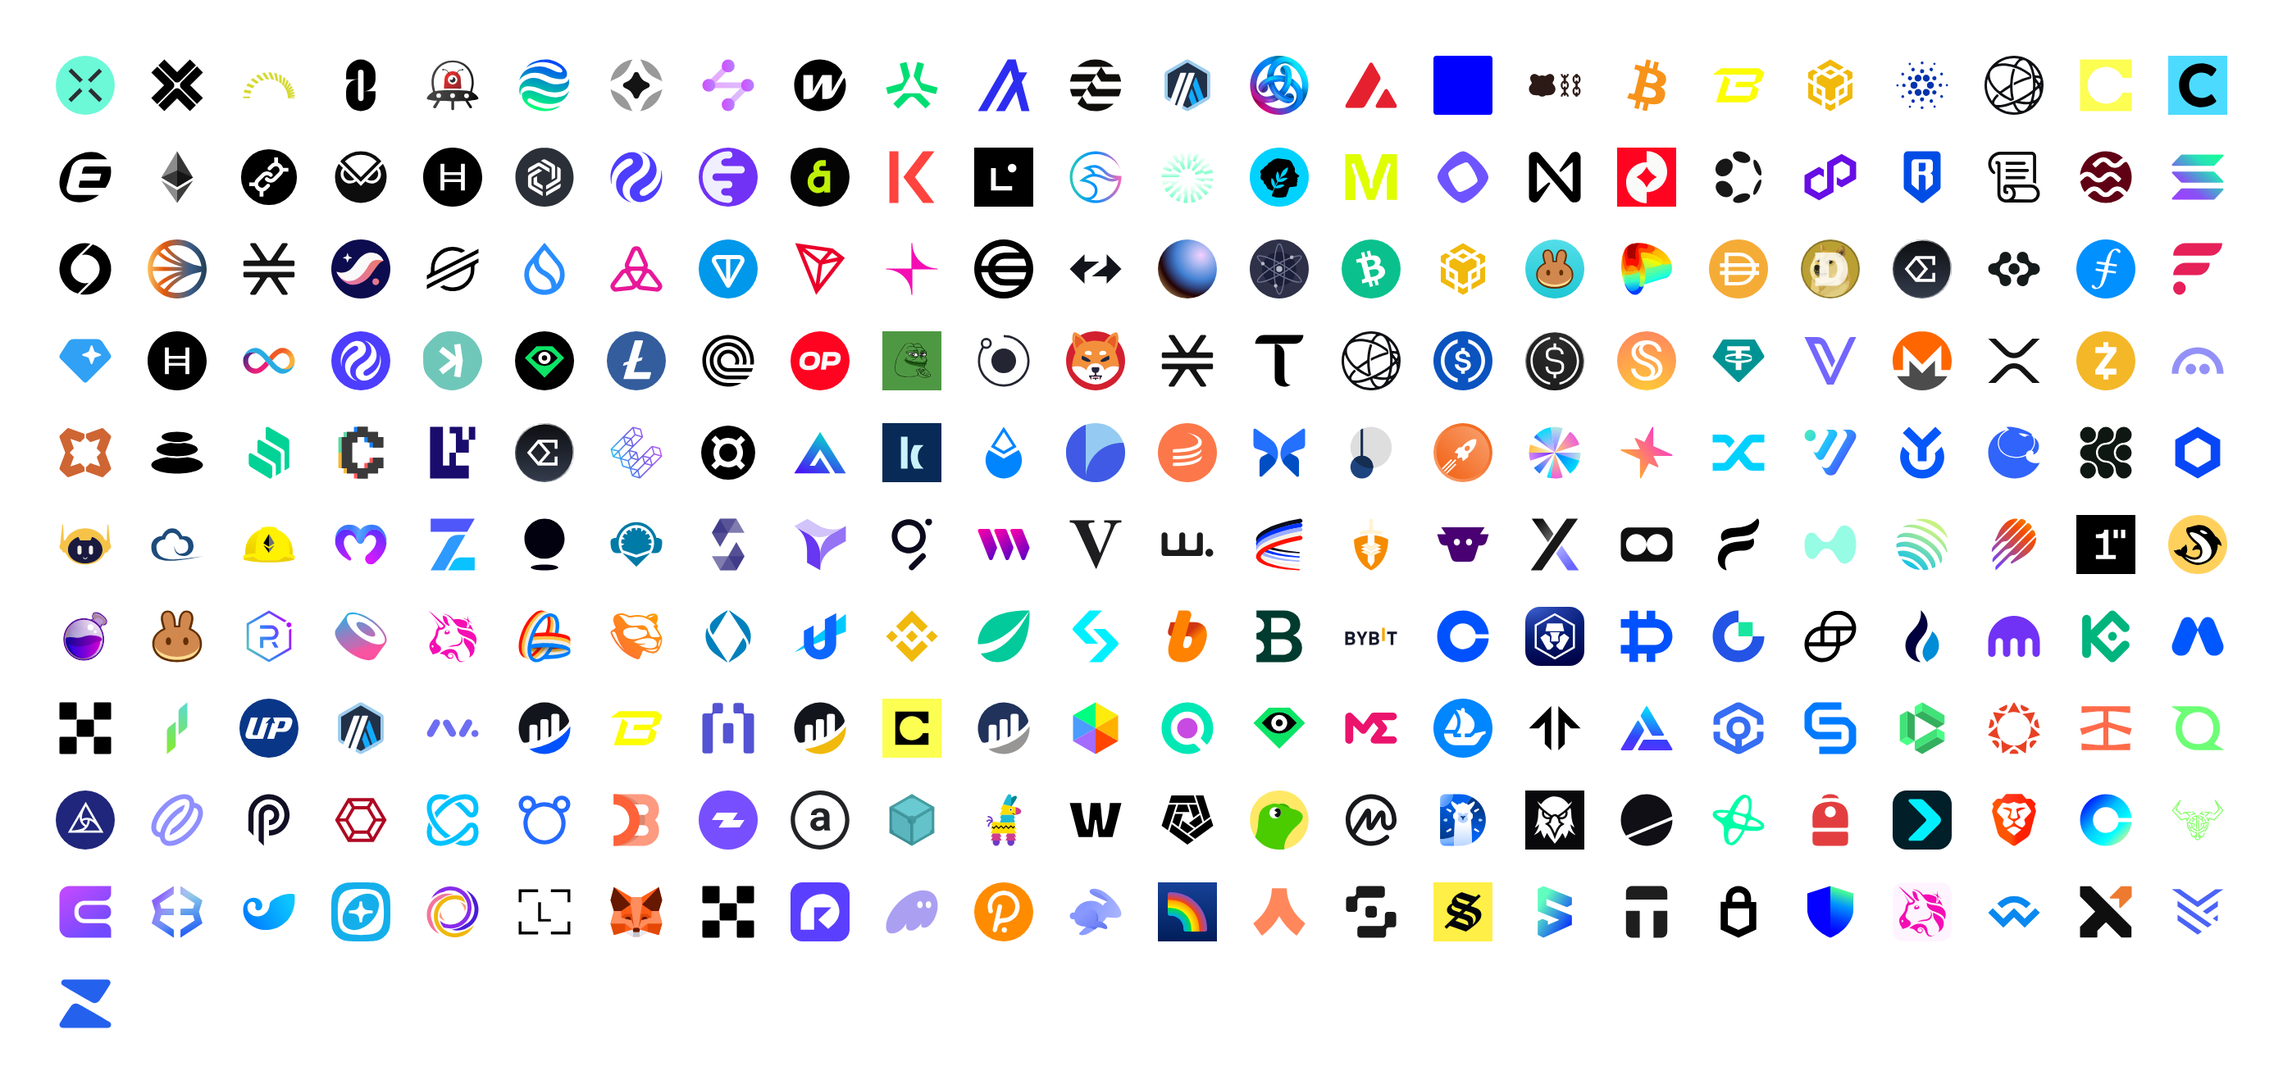
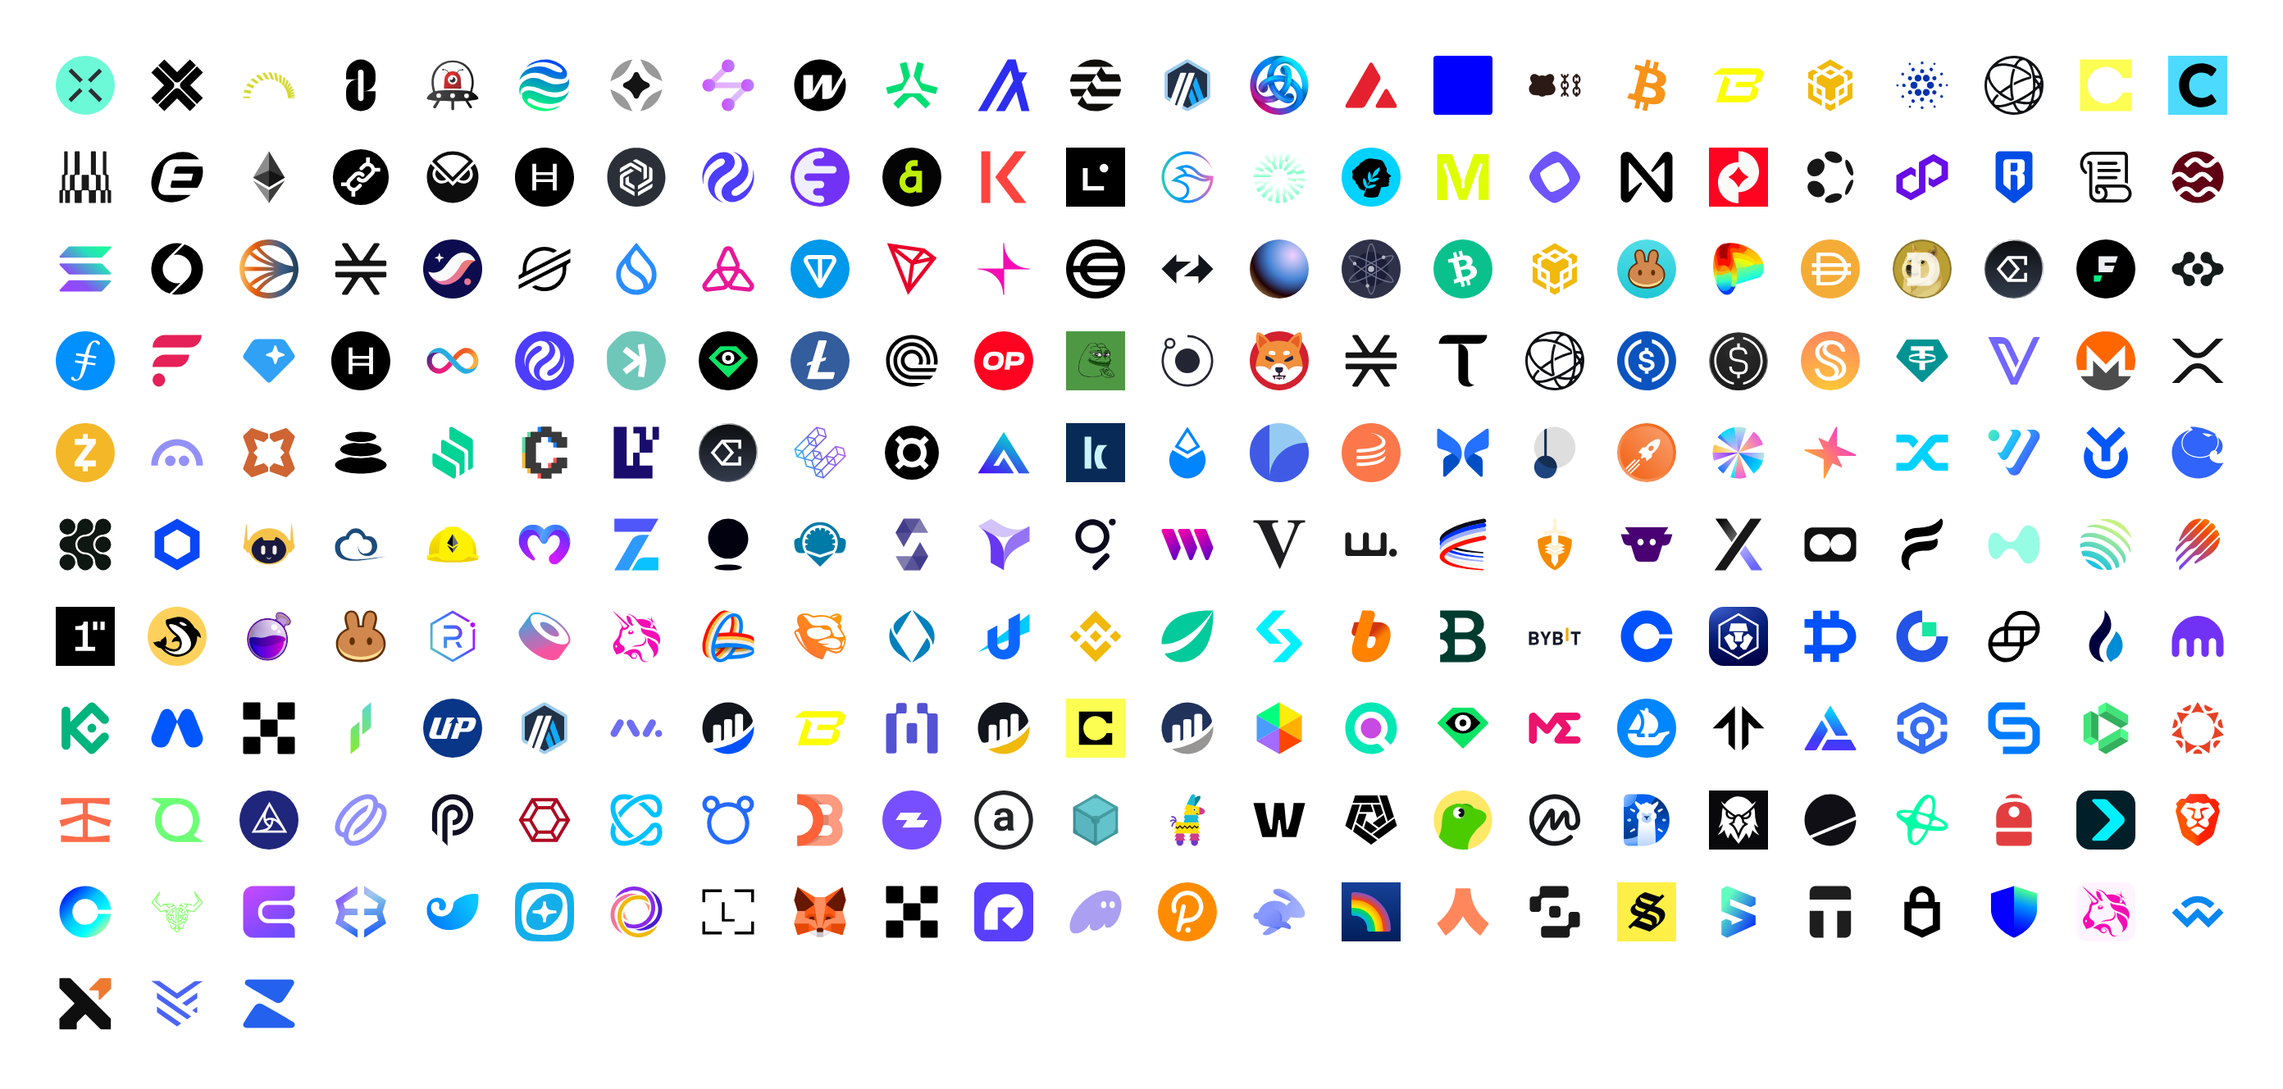
feat: add DataNetwork (formerly Story, chain 1514), Data and Fdusd (#874)
* feat(chain): add DataNetwork (formerly Story, chain 1514) and the Data coin

- DataNetwork / DataNetworkMono: the DATA Foundation brand kit's Symbol
  (TDF_Symbol_Black.svg, #1A1A1A), path unchanged, and the same path in
  currentColor (the kit's white Symbol has the same geometry).
- DataNetworkSquare / DataNetworkSquareMono: the kit's $DATA token badge
  (TDF_Token_DATA.svg, #F8F8F6 mark on a #1A1A1A square) and the square
  in currentColor with the mark knocked out (one evenodd path). The
  legibility report lists the square as DataNetwork's option on dark.
- Lookup keys: chain ID 1514 and the slugs data-network, data and story
  (Story Network became DATA Network; Story never shipped here, so no
  deprecated alias is needed).
- Data re-exports the four variants as the coin, with ticker DATA and
  the legacy ticker IP ($IP converts 1:1 to $DATA per datafdn.org/faqs).
- naming test: DataNetwork keeps the Network suffix of the official name
  "DATA Network".

Refs #706

Claude-Session: https://claude.ai/code/session_0113jxgcTGsEPf2j7H39sjZS

* feat(coin): add Fdusd (First Digital USD)

- Fdusd: First Digital's official token icon
  https://cdn.1stdigital.com/icon/fdusd.svg, unchanged (black disc, F in
  #ECEFF3, bar in #02EC81), placed on the 64 grid as a container. It is
  the image of the issuer's token metadata (cdn.1stdigital.com/mainnet/
  metadata.json, the json_uri of the FDUSD Solana mint) and the iconUrl
[…]

Changed region(s): [[0.0, 0.1235, 1.0, 0.5248], [0.0, 0.5557, 0.9688, 0.8645], [0.0312, 0.8953, 0.125, 0.9571]]

diff --git a/src/chain/DataNetwork.tsx b/src/chain/DataNetwork.tsx
@@ -1,0 +1,60 @@
+import { createIcon } from '../utils';
+
+// Source: https://datafdn.org/brand-guide (official DATA Foundation brand guide, brand kit 06252026)
+// Source: https://assets.piplabs.xyz/datafdn.org/brand-kit/06252026/Symbol/sm/TDF_Symbol_Black.svg (the brand guide's Symbol; Symbol/sm/TDF_Symbol_White.svg is the same geometry in #F8F8F6)
+// Source: https://assets.piplabs.xyz/datafdn.org/brand-kit/06252026/Token/sm/DATA/TDF_Token_DATA.svg (the brand guide's $DATA token badge)
+// Formerly Story: https://www.datafdn.org/ says Story Network becomes DATA Network and $IP becomes $DATA, and https://www.datafdn.org/faqs says all $IP converts to $DATA at a 1:1 ratio. Chain ID 1514 is listed as Data Network on chainid.network (checked 2026-10-09). Story never shipped in this package, so story is an extra lookup key with no deprecated alias
+// Default: the official Symbol TDF_Symbol_Black.svg (one path in #1A1A1A), path unchanged, placed on the 64 grid. The brand guide calls the Symbol the standalone mark for social icons, token badges and favicons. The brand colour stays the neutral #1A1A1A, as for Aptos and Hedera, because the guide reserves the #F6FF00 highlight for emphasis
+// Mono: the same path in currentColor (TDF_Symbol_White.svg is this geometry in #F8F8F6)
+// Square: the official $DATA token badge TDF_Token_DATA.svg (a full-bleed #1A1A1A square with the mark in #F8F8F6 at 60% of the side), paths unchanged, placed on the 64 grid. SquareMono: the square in currentColor with the badge's mark knocked out (one evenodd path; the mark is a single contour)
+/** Data Network chain icon (colored). */
+export const DataNetwork = /* @__PURE__ */ createIcon(
+  'DataNetwork',
+  '0 0 64 64',
+  () => (
+    <path
+      fill="#1A1A1A"
+      d="M12.18 29.6h-.49q-1.47 0-1.47 1.52v13.67q0 1.52 1.47 1.52h2.2q1.47 0 1.47-1.52V30.35q0-.76.73-.76h2.94q1.47 0 1.47-1.51V4.78q0-.76.73-.77h3.92q.73 0 .73.76v24.06q0 .76-.73.76h-3.18q-1.47 0-1.47 1.53v13.67c0 1.01.73 1.52 1.47 1.52h4.64q1.47 0 1.47-1.52V30.35q0-.76.73-.76h6.37q.73 0 .73.76V44.8c0 1 .74 1.5 1.47 1.5h4.65q1.47 0 1.47-1.5V31.1q0-1.52-1.47-1.52h-3.18q-.73 0-.73-.76V4.77q0-.75.73-.76h3.92q.72 0 .72.76v23.3q0 1.52 1.48 1.52h2.93q.73 0 .73.76V44.8q0 1.5 1.47 1.5h2.21q1.47 0 1.47-1.5V31.1q0-1.52-1.47-1.52h-.5q-.72 0-.72-.76V4.77q0-.75.73-.76h2.3q.73 0 .73.76v23.3q0 1.52 1.47 1.52h.24q.74 0 .74.76V44.8q0 1.5 1.47 1.5h.49q.72 0 .73.77v12.16q0 .76-.73.76h-2.3q-.74 0-.74-.76v-11.4c0-1-.48-1.52-1.22-1.52-.73 0-1.22.5-1.22 1.52v11.4q0 .76-.74.76h-3.67q-.73 0-.73-.76v-11.4q0-1.51-1.47-1.52h-2.2q-1.47 0-1.47 1.52v11.4q0 .76-.74.76h-6.11q-.73 0-.74-.76v-11.4q0-1.51-1.46-1.52h-4.9q-1.47 0-1.47 1.52v11.4q0 .76-.73.76h-6.12q-.74 0-.73-.76v-11.4q0-1.51-1.48-1.52h-2.2q-1.46 0-1.46 1.52v11.4q0 .76-.73.76h-3.68q-.73 0-.73-.76v-11.4c0-1-.49-1.52-1.22-1.52-.74 0-1.23.5-1.23 1.52v11.4q0 .76-.73.76h-2.3q-.73 0-.73-.76V47.07q0-.76.73-.76h.5q1.46 0 1.46-1.52V30.35q0-.76.73-.76h.25q1.47 0 1.47-1.51V4.78q0-.76.73-.77h2.3q.73 0 .73.76v24.06q0 .76-.73.76"
+    />
+  ),
+  { fill: 'none' },
+);
+
+/** Data Network chain icon (monochrome). */
+export const DataNetworkMono = /* @__PURE__ */ createIcon(
+  'DataNetworkMono',
+  '0 0 64 64',
+  () => (
+    <path d="M12.18 29.6h-.49q-1.47 0-1.47 1.52v13.67q0 1.52 1.47 1.52h2.2q1.47 0 1.47-1.52V30.35q0-.76.73-.76h2.94q1.47 0 1.47-1.51V4.78q0-.76.73-.77h3.92q.73 0 .73.76v24.06q0 .76-.73.76h-3.18q-1.47 0-1.47 1.53v13.67c0 1.01.73 1.52 1.47 1.52h4.64q1.47 0 1.47-1.52V30.35q0-.76.73-.76h6.37q.73 0 .73.76V44.8c0 1 .74 1.5 1.47 1.5h4.65q1.47 0 1.47-1.5V31.1q0-1.52-1.47-1.52h-3.18q-.73 0-.73-.76V4.77q0-.75.73-.76h3.92q.72 0 .72.76v23.3q0 1.52 1.48 1.52h2.93q.73 0 .73.76V44.8q0 1.5 1.47 1.5h2.21q1.47 0 1.47-1.5V31.1q0-1.52-1.47-1.52h-.5q-.72 0-.72-.76V4.77q0-.75.73-.76h2.3q.73 0 .73.76v23.3q0 1.52 1.47 1.52h.24q.74 0 .74.76V44.8q0 1.5 1.47 1.5h.49q.72 0 .73.77v12.16q0 .76-.73.76h-2.3q-.74 0-.74-.76v-11.4c0-1-.48-1.52-1.22-1.52-.73 0-1.22.5-1.22 1.52v11.4q0 .76-.74.76h-3.67q-.73 0-.73-.76v-11.4q0-1.51-1.47-1.52h-2.2q-1.47 0-1.47 1.52v11.4q0 .76-.74.76h-6.11q-.73 0-.74-.76v-11.4q0-1.51-1.46-1.52h-4.9q-1.47 0-1.47 1.52v11.4q0 .76-.73.76h-6.12q-.74 0-.73-.76v-11.4q0-1.51-1.48-1.52h-2.2q-1.46 0-1.46 1.52v11.4q0 .76-.73.76h-3.68q-.73 0-.73-.76v-11.4c0-1-.49-1.52-1.22-1.52-.74 0-1.23.5-1.23 1.52v11.4q0 .76-.73.76h-2.3q-.73 0-.73-.76V47.07q0-.76.73-.76h.5q1.46 0 1.46-1.52V30.35q0-.76.73-.76h.25q1.47 0 1.47-1.51V4.78q0-.76.73-.77h2.3q.73 0 .73.76v24.06q0 .76-.73.76" />
+  ),
+  { fill: 'currentColor' },
+);
+
+/** Data Network Square chain icon (colored). */
+export const DataNetworkSquare = /* @__PURE__ */ createIcon(
+  'DataNetworkSquare',
+  '0 0 64 64',
+  () => (
+    <g transform="scale(.42667)">
+      <rect width="150" height="150" fill="#1A1A1A" />
+      <path
+        fill="#F8F8F6"
+        d="M43.14 71.13h-.79q-2.36 0-2.36 2.44v22q0 2.43 2.36 2.44h3.54q2.36 0 2.36-2.44V72.35q0-1.22 1.18-1.22h4.72q2.36 0 2.36-2.44V31.22q0-1.22 1.18-1.22h6.3q1.17 0 1.17 1.22v38.69q0 1.22-1.18 1.22h-5.11q-2.36 0-2.36 2.44v22c0 1.62 1.18 2.44 2.36 2.44h7.47q2.36 0 2.36-2.44V72.35q0-1.22 1.18-1.22h10.23q1.18 0 1.18 1.22v23.22c0 1.62 1.18 2.44 2.36 2.44h7.47q2.36 0 2.36-2.44v-22q0-2.44-2.36-2.44h-5.11q-1.18 0-1.18-1.22V31.22Q84.83 30 86 30h6.3q1.17 0 1.17 1.22V68.7q0 2.44 2.36 2.44h4.72q1.18 0 1.18 1.22v23.22q0 2.43 2.36 2.44h3.55q2.36 0 2.36-2.44v-22q0-2.44-2.36-2.44h-.79q-1.17 0-1.18-1.22v-38.7q0-1.22 1.18-1.22h3.7q1.18 0 1.18 1.22V68.7q0 2.44 2.36 2.44h.4q1.17 0 1.17 1.22v23.22q0 2.43 2.36 2.44h.79q1.18 0 1.18 1.22v19.55q0 1.22-1.18 1.22h-3.7q-1.17 0-1.18-1.22v-18.33c0-1.63-.78-2.44-1.96-2.44s-1.97.81-1.97 2.44v18.33q0 1.22-1.18 1.22h-5.9q-1.2 0-1.19-1.22v-18.33q0-2.44-2.36-2.44h-3.54q-2.36 0-2.36 2.44v18.33q0 1.22-1.18 1.22h-9.83q-1.18 0-1.18-1.22v-18.33q0-2.44-2.36-2.44h-7.87q-2.36 0-2.36 2.44v18.33q0 1.22-1.18 1.22H57.7q-1.18 0-1.18-1.22v-18.33q0-2.44-2.36-2.44h-3.54q-2.36 0-2.36 2.44v18.33q0 1.22-1.18 1.22h-5.9q-1.18 0-1.18-1.22v-18.33c0-1.63-.79-2.44-1.97-2.44s-1.96.81-1.96 2.44v18.33q0 1.22-1.18 1.22h-3.7Q30 120 30 118.78V99.23q0-1.22 1.18-1.22h.79q2.36 0 2.36-2.44V72.35q0-1.22 1.18-1.22h.39q2.36 0 2.36-2.44V31.22q0-1.22 1.18-1.22h3.7q1.17 0 1.18 1.22v38.69q0 1.22-1.18 1.22"
+      />
+    </g>
+  ),
+  { fill: 'none' },
+);
+
+/** Data Network Square chain icon (monochrome). */
+export const DataNetworkSquareMono = /* @__PURE__ */ createIcon(
+  'DataNetworkSquareMono',
+  '0 0 64 64',
+  () => (
+    <path
+      fillRule="evenodd"
+      d="M0 0h64v64H0Zm18.4 30.35h-.33q-1 0-1 1.04v9.39q0 1.03 1 1.04h1.51q1 0 1-1.04v-9.91q0-.52.51-.52h2.01q1.01 0 1.01-1.04V13.32q0-.52.5-.52h2.7q.5 0 .5.52v16.5q0 .53-.51.53h-2.18q-1 0-1 1.04v9.39c0 .69.5 1.04 1 1.04h3.19q1 0 1-1.04v-9.91q0-.52.5-.52h4.37q.5 0 .5.52v9.9c0 .7.5 1.05 1.01 1.05h3.19q1 0 1-1.04v-9.39q0-1.04-1-1.04H36.7q-.5 0-.5-.52v-16.5q0-.53.5-.53h2.68q.5 0 .5.52v16q0 1.03 1 1.03h2.02q.5 0 .5.52v9.91q0 1.04 1.01 1.04h1.52q1 0 1-1.04V31.4q0-1.04-1-1.04h-.34q-.5 0-.5-.52v-16.5q0-.53.5-.53h1.58q.5 0 .5.52v16q0 1.03 1 1.03h.18q.5 0 .5.52v9.91q0 1.04 1 1.04h.34q.5 0 .5.52v8.34q0 .52-.5.52h-1.58q-.5 0-.5-.52v-7.82c0-.7-.33-1.04-.84-1.04s-.84.35-.84 1.04v7.82q0 .52-.5.52h-2.52q-.51 0-.5-.52v-7.82q0-1.04-1.01-1.04h-1.51q-1.01 0-1.01 1.04v7.82q0 .52-.5.52h-4.2q-.5 0-.5-.52v-7.82q0-1.04-1-1.04H30.3q-1 0-1 1.04v7.82q0 .52-.5.52h-4.2q-.5 0-.5-.52v-7.82q0-1.04-1-1.04h-1.5q-1 0-1 1.04v7.82q0 .52-.51.52h-2.52q-.5 0-.5-.52v-7.82c0-.7-.34-1.04-.84-1.04s-.84.35-.84 1.04v7.82q0 .52-.5.52H13.3q-.51 0-.51-.52v-8.34q0-.52.5-.52h.34q1 0 1-1.04v-9.91q0-.52.51-.52h.17q1 0 1-1.04v-16q0-.52.5-.52h1.59q.5 0 .5.52v16.5q0 .53-.5.53"
+    />
+  ),
+  { fill: 'currentColor' },
+);

diff --git a/src/coin/Fdusd.tsx b/src/coin/Fdusd.tsx
@@ -1,0 +1,37 @@
+import { createIcon } from '../utils';
+
+// Source: https://cdn.1stdigital.com/icon/fdusd.svg (the image of First Digital's FDUSD token metadata https://cdn.1stdigital.com/mainnet/metadata.json)
+// Provenance: the metadata JSON is the json_uri of the FDUSD Solana mint 9zNQRsGLjNKwCUU5Gq5LR8beUCPzQMVMqKAi3SSZh54u, and the FDUSD coin metadata on Sui (0xf16e6b723f242ec745dfd7634ad072c42d5c1d9ac9d62a39c381303eaa57693a::fdusd::FDUSD) has the same SVG as its iconUrl. cdn.1stdigital.com is First Digital's own domain: 1stdigital.com shares its Cloudflare nameservers and Atlassian domain-verification record with firstdigitallabs.com. firstdigitallabs.com and 1stdigital.com return a Cloudflare 403, and fdusd.io is parked (checked 2026-10-09)
+// Colored: the official fdusd.svg unchanged (a black disc, the F in #ECEFF3 and the bar in #02EC81), placed on the 64 grid as a container. First Digital's reachable token metadata (Solana, Sui) publishes FDUSD only as this disc, and no stand-alone F was found (firstdigitallabs.com, 1stdigital.com and guessed sibling files on cdn.1stdigital.com all return 403, checked 2026-10-09), so the disc is the base icon and there is no separate Circle variant
+// Mono: the disc in currentColor with the F and the bar knocked out (one evenodd path; the shapes do not overlap)
+/** Fdusd coin icon (colored). */
+export const Fdusd = /* @__PURE__ */ createIcon(
+  'Fdusd',
+  '0 0 64 64',
+  () => (
+    <g transform="scale(.128)">
+      <rect width="500" height="500" fill="black" rx="250" />
+      <path
+        fill="#ECEFF3"
+        fillRule="evenodd"
+        d="M188 143v134h117.5l18.54-54H240v-26h92.96l18.54-54z"
+        clipRule="evenodd"
+      />
+      <path fill="#02EC81" d="M200.5 357H148v-54h71z" />
+    </g>
+  ),
+  { fill: 'none' },
+);
+
+/** Fdusd coin icon (monochrome). */
+export const FdusdMono = /* @__PURE__ */ createIcon(
+  'FdusdMono',
+  '0 0 64 64',
+  () => (
+    <path
+      fillRule="evenodd"
+      d="M0 32a32 32 0 1 0 64 0 32 32 0 1 0-64 0m24.06-13.7v17.16H39.1l2.38-6.92H30.72v-3.32h11.9l2.37-6.92zm1.6 27.4h-6.72v-6.92h9.1z"
+    />
+  ),
+  { fill: 'currentColor' },
+);

diff --git a/src/manifest/index.ts b/src/manifest/index.ts
@@ -331,6 +331,18 @@ export const ICON_MANIFEST: readonly IconManifestEntry[] = [
   },
   { name: 'CronosMono', category: 'chain' },
   {
+    name: 'DataNetwork',
+    category: 'chain',
+    chainId: 1514,
+    slug: 'data-network',
+    variants: ['', 'Mono', 'Square', 'SquareMono'],
+    aliases: ['story'],
+    brandColor: '#1a1a1a',
+  },
+  { name: 'DataNetworkMono', category: 'chain' },
+  { name: 'DataNetworkSquare', category: 'chain' },
+  { name: 'DataNetworkSquareMono', category: 'chain' },
+  {
     name: 'Eclipse',
     category: 'chain',
     slug: 'eclipse',
@@ -812,6 +824,10 @@ export const ICON_MANIFEST: readonly IconManifestEntry[] = [
   { name: 'DaiCircle', category: 'coin' },
   { name: 'DaiCircleMono', category: 'coin' },
   { name: 'DaiMono', category: 'coin' },
+  { name: 'Data', category: 'coin', ticker: 'DATA' },
+  { name: 'DataMono', category: 'coin' },
+  { name: 'DataSquare', category: 'coin' },
+  { name: 'DataSquareMono', category: 'coin' },
   {
     name: 'Doge',
     category: 'coin',
@@ -838,6 +854,14 @@ export const ICON_MANIFEST: readonly IconManifestEntry[] = [
   { name: 'EthCircle', category: 'coin' },
   { name: 'EthCircleMono', category: 'coin' },
   { name: 'EthMono', category: 'coin' },
+  {
+    name: 'Fdusd',
+    category: 'coin',
+    ticker: 'FDUSD',
+    variants: ['', 'Mono'],
+    brandColor: '#02ec81',
+  },
+  { name: 'FdusdMono', category: 'coin' },
   {
     name: 'Fet',
     category: 'coin',

diff --git a/src/meta/index.ts b/src/meta/index.ts
@@ -44,6 +44,7 @@ export const CHAIN_ID_TO_NAME = {
   999: 'Hyperliquid',
   1088: 'Metis',
   1329: 'Sei',
+  1514: 'DataNetwork',
   1868: 'Soneium',
   2020: 'Ronin',
   2222: 'Kava',
@@ -105,6 +106,8 @@ export const CHAIN_SLUG_TO_NAME = {
   celo: 'Celo',
   'cosmos-hub': 'CosmosHub',
   cronos: 'Cronos',
+  data: 'DataNetwork',
+  'data-network': 'DataNetwork',
   dot: 'Polkadot',
   eclipse: 'Eclipse',
   ethereum: 'Ethereum',
@@ -149,6 +152,7 @@ export const CHAIN_SLUG_TO_NAME = {
   stacks: 'Stacks',
   starknet: 'Starknet',
   stellar: 'Stellar',
+  story: 'DataNetwork',
   sui: 'Sui',
   taiko: 'Taiko',
   ton: 'Ton',
@@ -194,11 +198,13 @@ export const TICKER_TO_COIN = {
   CRO: 'Cro',
   CRV: 'Crv',
   DAI: 'Dai',
+  DATA: 'Data',
   DOGE: 'Doge',
   DOT: 'Dot',
   EIGEN: 'Eigen',
   ENA: 'Ena',
   ETH: 'Eth',
+  FDUSD: 'Fdusd',
   FET: 'Fet',
   FIL: 'Fil',
   FLR: 'Flr',
@@ -208,6 +214,7 @@ export const TICKER_TO_COIN = {
   HYPE: 'Hype',
   ICP: 'Icp',
   INJ: 'Inj',
+  IP: 'Data',
   JUP: 'Jup',
   KAIA: 'Kaia',
   KAS: 'Kas',

diff --git a/test/dynamic.test.ts b/test/dynamic.test.ts
@@ -88,6 +88,7 @@ describe('resolveChain', () => {
     expect(resolveChain({ chainId: 1 })).toBe('Ethereum');
     expect(resolveChain({ chainId: 42_161 })).toBe('Arbitrum');
     expect(resolveChain({ chainId: 42_170 })).toBe('ArbitrumNova');
+    expect(resolveChain({ chainId: 1514 })).toBe('DataNetwork');
   });
 
   it('resolves by slug', () => {
@@ -127,6 +128,13 @@ describe('category lookups', () => {
     // v5 renames (#815): the old keys resolve to the new icons.
     [resolveTicker, 'MKR', 'Sky'],
     [resolveTicker, 'GRAM', 'Gram'],
+    // DATA Network (formerly Story, #706) and FDUSD (#708).
+    [resolveTicker, 'DATA', 'Data'],
+    [resolveTicker, 'IP', 'Data'],
+    [resolveTicker, 'FDUSD', 'Fdusd'],
+    [resolveChainSlug, 'data-network', 'DataNetwork'],
+    [resolveChainSlug, 'data', 'DataNetwork'],
+    [resolveChainSlug, 'story', 'DataNetwork'],
     [resolveDefiSlug, 'makerdao', 'Sky'],
     [resolveDexSlug, 'paraswap', 'Velora'],
     [resolveChainSlug, 'bsc', 'BnbSmartChain'],

diff --git a/src/dynamic/imports/coin.ts b/src/dynamic/imports/coin.ts
@@ -59,6 +59,10 @@ export const coinImports: Record<
   DaiCircle: () => import('../../coin/Dai'),
   DaiCircleMono: () => import('../../coin/Dai'),
   DaiMono: () => import('../../coin/Dai'),
+  Data: () => import('../../coin/Data'),
+  DataMono: () => import('../../coin/Data'),
+  DataSquare: () => import('../../coin/Data'),
+  DataSquareMono: () => import('../../coin/Data'),
   Doge: () => import('../../coin/Doge'),
   DogeCircle: () => import('../../coin/Doge'),
   DogeCircleMono: () => import('../../coin/Doge'),
@@ -73,6 +77,8 @@ export const coinImports: Record<
   EthCircle: () => import('../../coin/Eth'),
   EthCircleMono: () => import('../../coin/Eth'),
   EthMono: () => import('../../coin/Eth'),
+  Fdusd: () => import('../../coin/Fdusd'),
+  FdusdMono: () => import('../../coin/Fdusd'),
   Fet: () => import('../../coin/Fet'),
   FetMono: () => import('../../coin/Fet'),
   Fil: () => import('../../coin/Fil'),

diff --git a/src/dynamic/imports/chain.ts b/src/dynamic/imports/chain.ts
@@ -73,6 +73,10 @@ export const chainImports: Record<
   CosmosHubMono: () => import('../../chain/CosmosHub'),
   Cronos: () => import('../../chain/Cronos'),
   CronosMono: () => import('../../chain/Cronos'),
+  DataNetwork: () => import('../../chain/DataNetwork'),
+  DataNetworkMono: () => import('../../chain/DataNetwork'),
+  DataNetworkSquare: () => import('../../chain/DataNetwork'),
+  DataNetworkSquareMono: () => import('../../chain/DataNetwork'),
   Eclipse: () => import('../../chain/Eclipse'),
   EclipseMono: () => import('../../chain/Eclipse'),
   Ethereum: () => import('../../chain/Ethereum'),

diff --git a/src/coin/Data.tsx b/src/coin/Data.tsx
@@ -1,0 +1,8 @@
+// Source: re-export of DataNetwork — see src/chain/DataNetwork.tsx
+// Lookup keys: the legacy ticker IP resolves to Data, because $IP converts to $DATA automatically at a 1:1 ratio (https://www.datafdn.org/faqs).
+export {
+  DataNetwork as Data,
+  DataNetworkMono as DataMono,
+  DataNetworkSquare as DataSquare,
+  DataNetworkSquareMono as DataSquareMono,
+} from '../chain/DataNetwork';

diff --git a/test/naming.test.ts b/test/naming.test.ts
@@ -119,6 +119,7 @@ const SUFFIXED = new Map<string, SuffixReason>([
   ['BnbSmartChain', { official: 'BNB Smart Chain' }],
   ['CoinbaseWallet', { clash: 'Coinbase' }],
   ['CowProtocol', { official: 'CoW Protocol' }],
+  ['DataNetwork', { official: 'DATA Network' }],
   ['GnosisChain', { official: 'Gnosis Chain' }],
   ['OkxWallet', { clash: 'Okx' }],
   ['SafeProtocol', { clash: 'Safe' }],

diff --git a/src/coin/index.ts b/src/coin/index.ts
@@ -15,11 +15,13 @@ export * from './Celo';
 export * from './Cro';
 export * from './Crv';
 export * from './Dai';
+export * from './Data';
 export * from './Doge';
 export * from './Dot';
 export * from './Eigen';
 export * from './Ena';
 export * from './Eth';
+export * from './Fdusd';
 export * from './Fet';
 export * from './Fil';
 export * from './Flare';

diff --git a/src/chain/index.ts b/src/chain/index.ts
@@ -15,6 +15,7 @@ export * from './Celestia';
 export * from './Celo';
 export * from './CosmosHub';
 export * from './Cronos';
+export * from './DataNetwork';
 export * from './Eclipse';
 export * from './Ethereum';
 export * from './Fantom';

diff --git a/.changeset/new-chain-data-network.md b/.changeset/new-chain-data-network.md
@@ -1,0 +1,10 @@
+---
+"react-web3-icons": minor
+---
+
+Add `DataNetwork` for DATA Network (formerly Story, chain ID 1514) from the DATA Foundation brand kit (#706):
+
+- `DataNetwork` / `DataNetworkMono`: the official Symbol in `#1A1A1A`, and the same mark in `currentColor`.
+- `DataNetworkSquare` / `DataNetworkSquareMono`: the official $DATA token badge, a `#1A1A1A` square with the mark in `#F8F8F6`, and the square in `currentColor` with the mark knocked out. Use the square on dark backgrounds.
+- `<ChainIcon>` and `CHAIN_ID_TO_NAME` / `CHAIN_SLUG_TO_NAME` resolve chain ID `1514` and the slugs `data-network`, `data` and the old name `story`.
+- The coin re-export `Data` (`DataMono`, `DataSquare`, `DataSquareMono`) resolves the ticker `DATA` and the legacy ticker `IP` through `<CoinIcon>` and `TICKER_TO_COIN`, since $IP converted 1:1 to $DATA.
